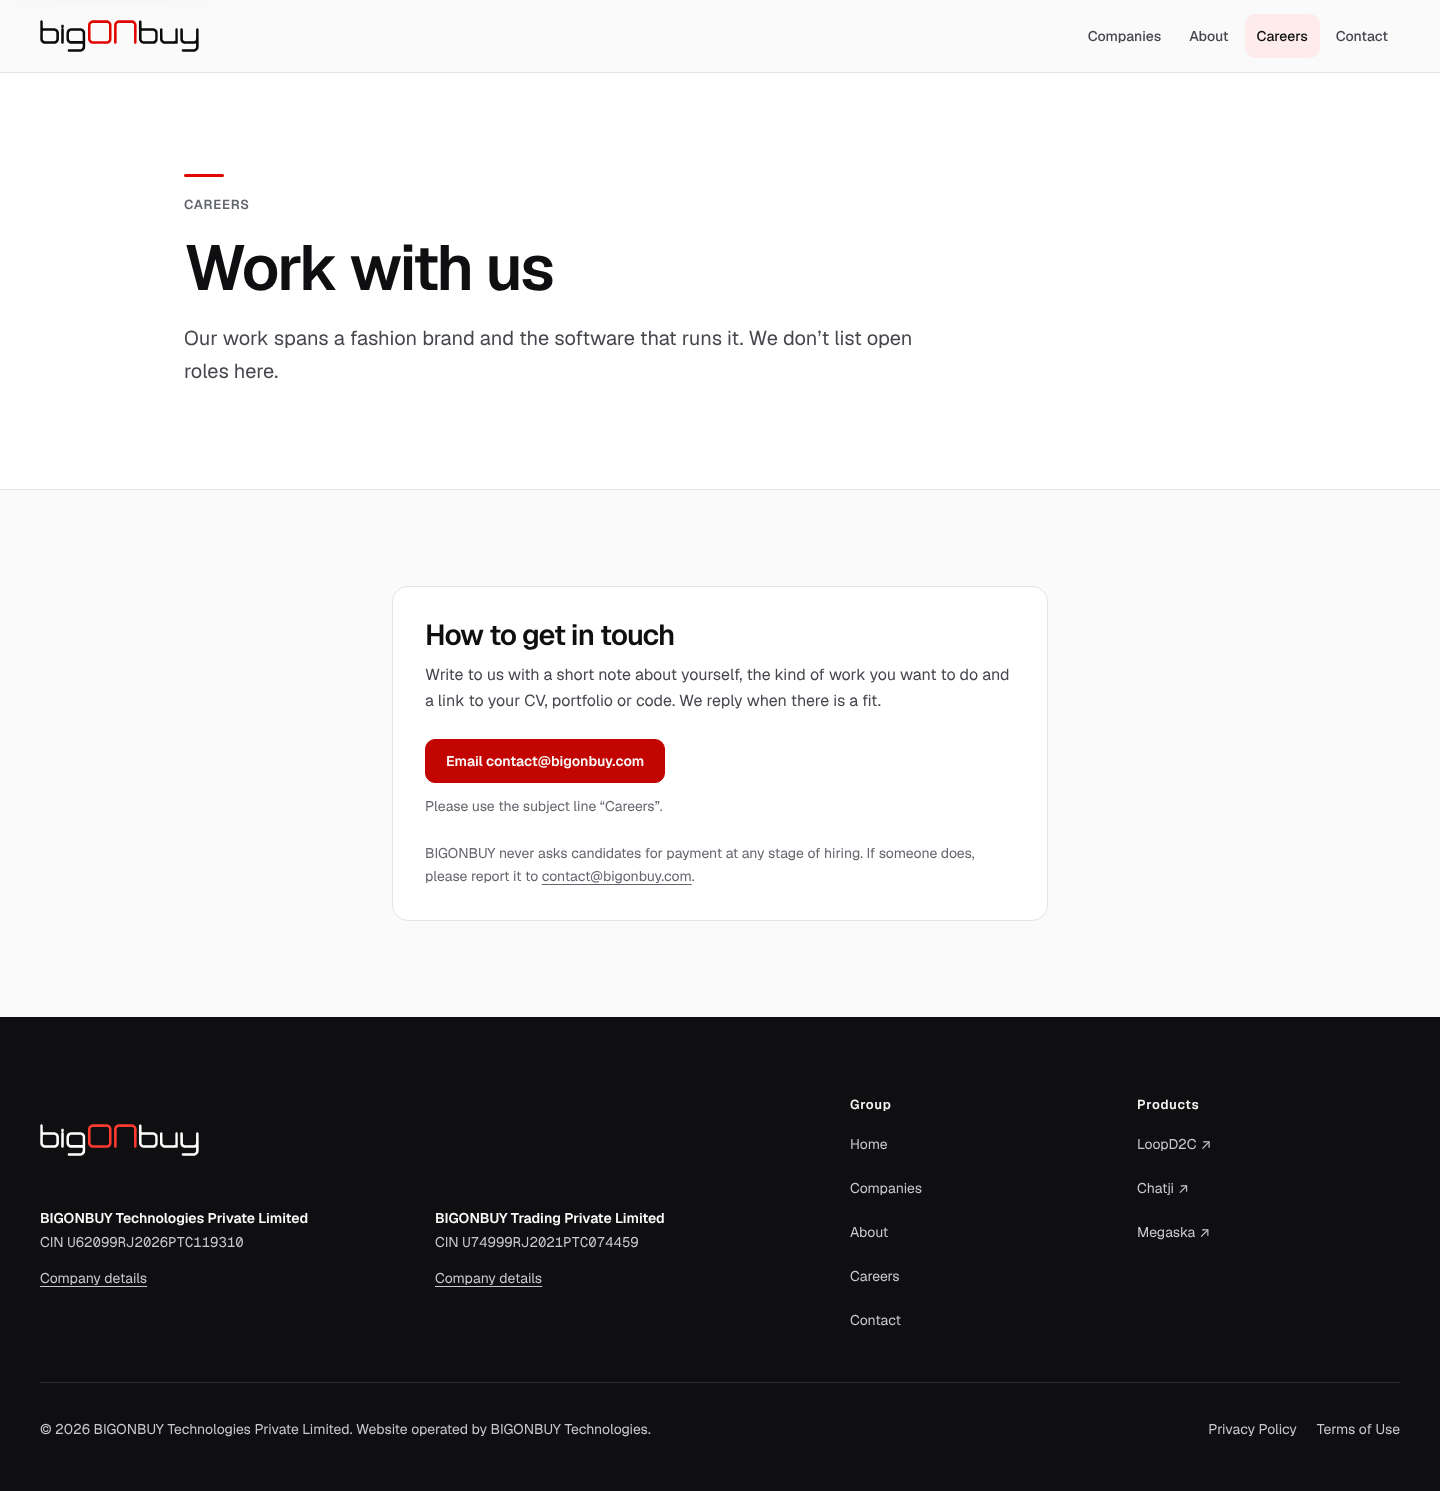
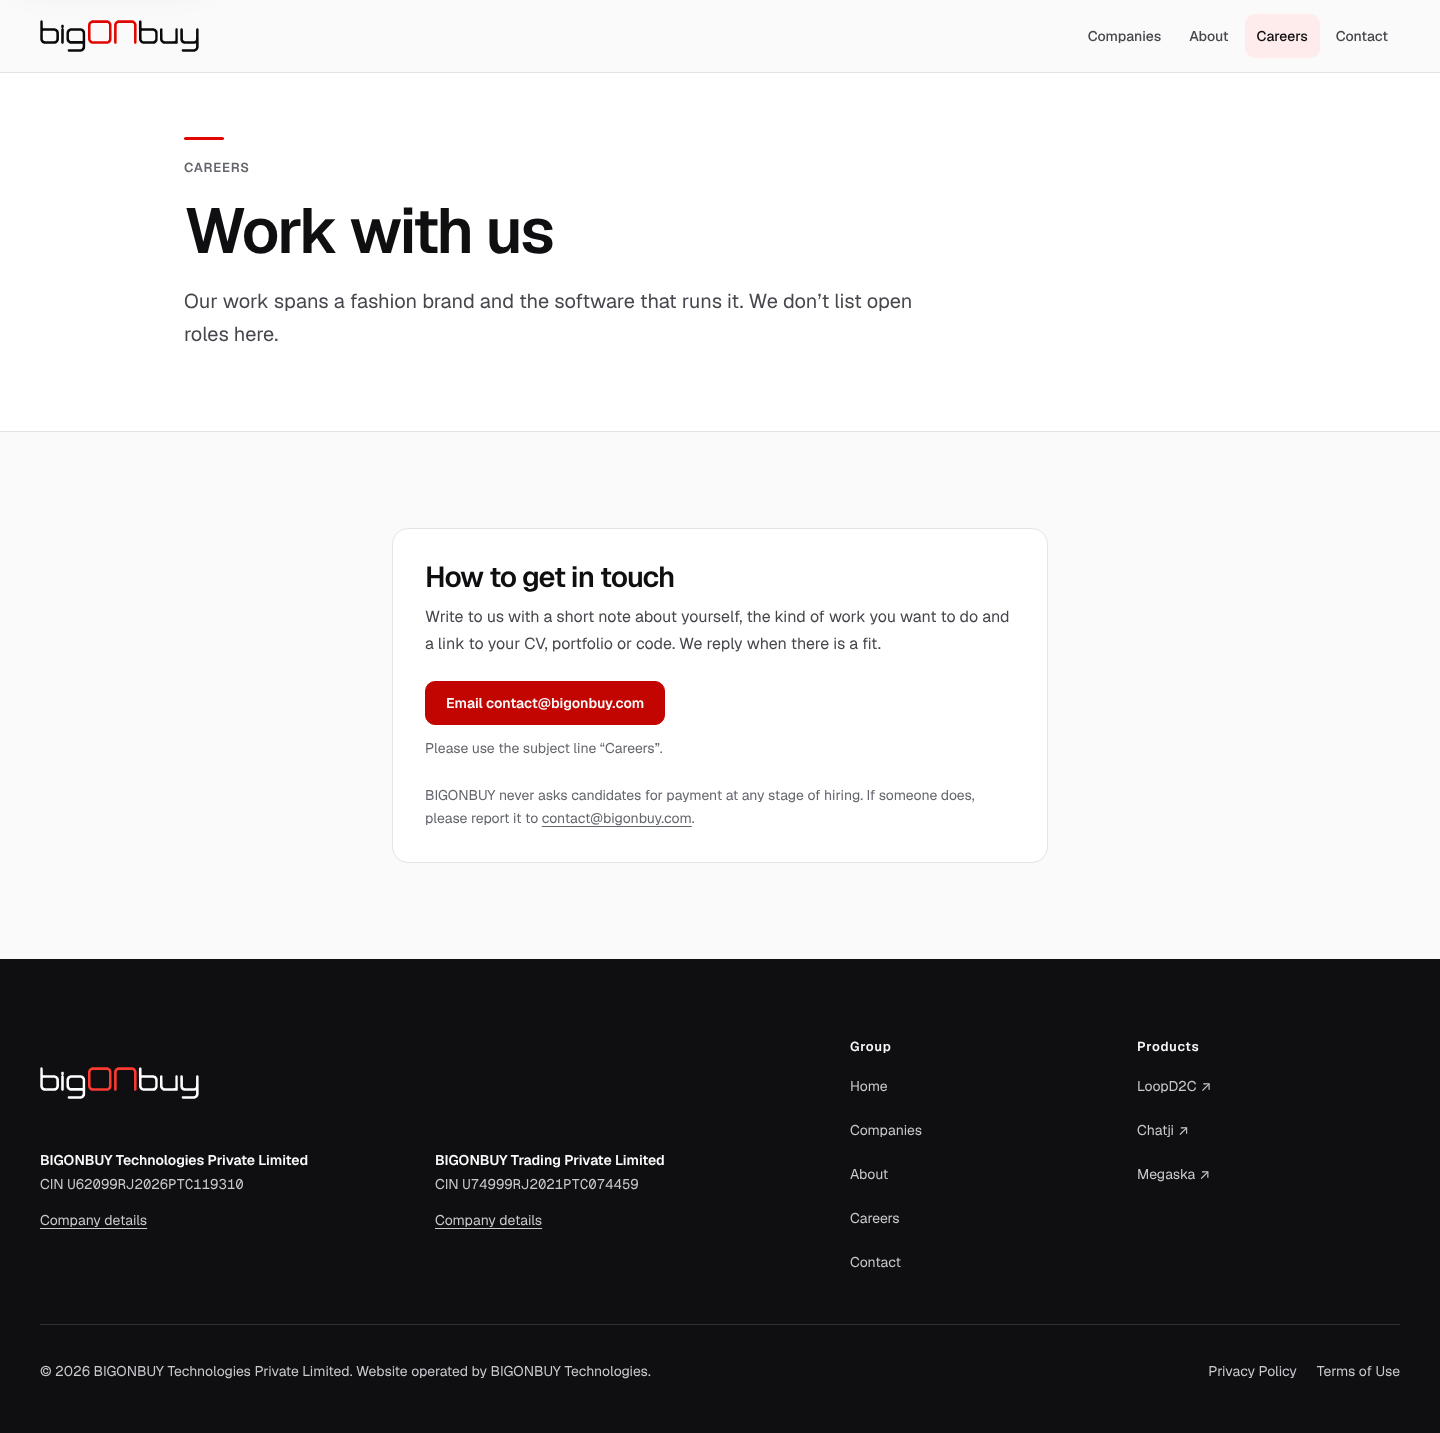
Tighten the space between the header and each page's hero
The sticky header already separates the hero from the top of the screen,
so hero top padding drops to 40px mobile / 64px desktop (home was 80/136,
subpages 56/100). Bottom padding stays fuller so heroes don't crowd the
first section.

Claude-Session: https://claude.ai/code/session_01Jvz5mRUoQkmn8kLwUTEMgb

diff --git a/src/app/globals.css b/src/app/globals.css
@@ -61,9 +61,12 @@
   --section-standard: clamp(3rem, 7vw, 6rem);
   --section-spacious: clamp(3rem, 7vw, 6.5rem);
   --section-editorial: clamp(5rem, 9.5vw, 8.5rem);
-  /* Subpage heroes: symmetric and a step above body sections, so each page opens with air. */
-  --section-hero-top: clamp(3.5rem, 7vw, 6.5rem);
-  --section-hero-bottom: clamp(3.5rem, 7vw, 6.5rem);
+  /* Heroes sit right under the sticky header, which already separates them from the top of the
+     screen: a modest top, and a fuller bottom so the hero doesn't run into the first section. */
+  --section-hero-top: clamp(2.5rem, 4.5vw, 4rem);
+  --section-hero-bottom: clamp(3rem, 6vw, 5rem);
+  /* The home hero carries the large headline, so it gets a little more below. */
+  --section-home-hero-bottom: clamp(3.5rem, 7vw, 6rem);
   /* The first section after a hero: the torn edge already separates them, so it needs less top. */
   --section-after-hero: clamp(3rem, 5vw, 4.5rem);
   /* Two adjacent sections on the same surface read as one band: the second one's top padding

diff --git a/src/app/page.tsx b/src/app/page.tsx
@@ -28,12 +28,12 @@ export default function HomePage() {
     <>
       <script type="application/ld+json" dangerouslySetInnerHTML={jsonLd(structuredData)} />
 
-      <Section spacing="editorial" data-surface="sheet" className="bg-[var(--color-surface)]" aria-labelledby="home-heading">
+      <Section spacing="hero" data-surface="sheet" className="!pb-[var(--section-home-hero-bottom)] bg-[var(--color-surface)]" aria-labelledby="home-heading">
         <Container width="standard">
           <span aria-hidden="true" className="brand-rule" />
           <h1
             id="home-heading"
-            className="mt-8 max-w-[15ch] text-[length:clamp(2.75rem,6.4vw,5.5rem)] font-semibold leading-[1] tracking-[-0.045em]"
+            className="mt-6 max-w-[15ch] text-[length:clamp(2.75rem,6.4vw,5.5rem)] font-semibold leading-[1] tracking-[-0.045em]"
           >
             {siteConfig.tagline}
           </h1>
